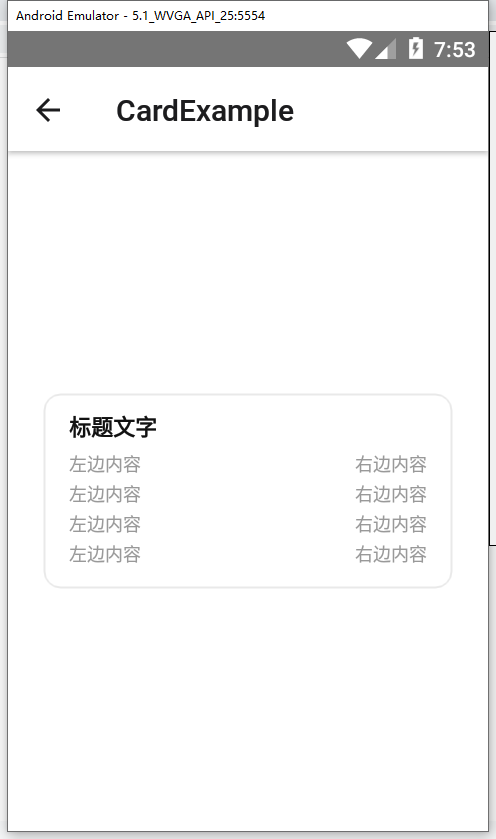
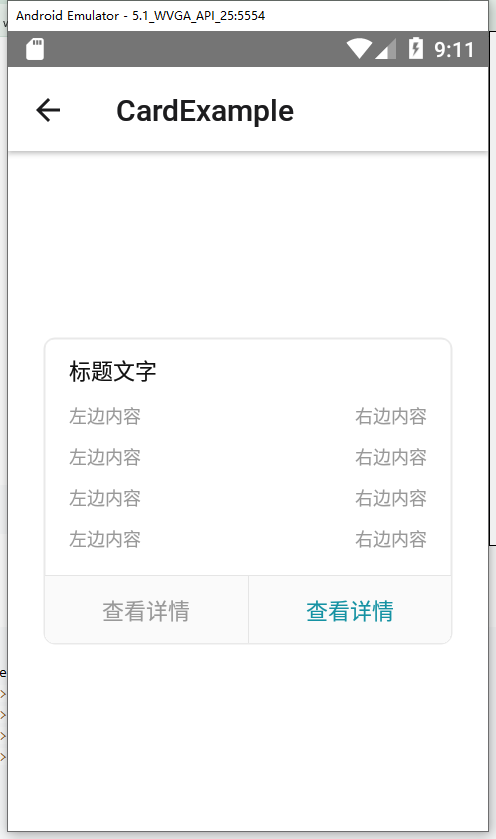
添加国际化

diff --git a/src/components/refresh/Refresh.tsx b/src/components/refresh/Refresh.tsx
@@ -11,6 +11,8 @@ import {
 	ViewStyle
 } from 'react-native'
 
+import { i18n } from '../../i18n';
+
 export const RefreshState = {
 	Idle: 0,
 	HeaderRefreshing: 1,
@@ -55,11 +57,12 @@ type State = {
 class Refresh extends PureComponent<Props | any, State> {
 
 	static defaultProps = {
-		footerRefreshingText: '数据加载中…',
-		footerFailureText: '加载失败,点击重新加载',
-		footerNoMoreDataText: '已加载全部数据',
-		footerEmptyDataText: '暂时没有相关数据',
+		// footerRefreshingText: i18n.t("Refresh.FooterRefreshingText"),
+		// footerFailureText: i18n.t("Refresh.FooterFailureText"),
+		// footerNoMoreDataText: i18n.t("Refresh.FooterNoMoreDataText"),
+		// footerEmptyDataText: i18n.t("Refresh.FooterEmptyDataText"),
 	}
+
 
 	// componentWillReceiveProps(nextProps: Props) {
 	//     log('[RefreshListView]  RefreshListView componentWillReceiveProps ' + nextProps.refreshState)
@@ -151,17 +154,19 @@ class Refresh extends PureComponent<Props | any, State> {
 	renderFooter = () => {
 		let footer = null
 
+
 		let {
-			footerRefreshingText,
-			footerFailureText,
-			footerNoMoreDataText,
-			footerEmptyDataText,
+			footerRefreshingText = i18n.t("Refresh.FooterRefreshingText"),
+			footerFailureText = i18n.t("Refresh.FooterFailureText"),
+			footerNoMoreDataText = i18n.t("Refresh.FooterNoMoreDataText"),
+			footerEmptyDataText = i18n.t("Refresh.FooterEmptyDataText"),
 
 			footerRefreshingComponent,
 			footerFailureComponent,
 			footerNoMoreDataComponent,
 			footerEmptyDataComponent,
 		} = this.props
+
 
 		switch (this.props.refreshState) {
 			case RefreshState.Idle:

diff --git a/src/themes/Theme.tsx b/src/themes/Theme.tsx
@@ -4,6 +4,7 @@ import { Platform, Dimensions, StatusBar } from 'react-native';
 
 import ThemeDefault from './ThemeDefault';
 import type { ThemeType } from './ThemeType';
+import { i18n } from '../i18n';
 
 const X_WIDTH = 375;
 const X_HEIGHT = 812;
@@ -63,6 +64,13 @@ const Theme: ThemeType = {
 
 	get isLandscape() {
 		return Dimensions.get('window').width > Dimensions.get('window').height;
+	},
+
+	setI18n(locale?: string) {
+
+		console.log("***************************" + locale)
+		//设置国际化
+		i18n.locale = locale;
 	},
 
 	get statusBarHeight() {

diff --git a/example/src/views/Home.tsx b/example/src/views/Home.tsx
@@ -1,5 +1,6 @@
-import React from 'react'
+import React, { useEffect } from 'react'
 import { FlatList, Image, StyleSheet, Text, TouchableOpacity, View } from "react-native"
+import { Theme } from 'react-native-yunexpress-ui';
 import ComponentMenu from './Menu';
 
 interface ItemType {
@@ -14,6 +15,10 @@ export default function Home({ navigation }: any) {
 	const DATA = ComponentMenu.map(item => (
 		{ name: item.name, descr: item.descr }
 	))
+
+	useEffect(() => {
+		Theme.setI18n("en");
+	}, []);
 
 	const renderItem = ({ item }: ItemType) => {
 		return (

diff --git a/example/src/views/CardExample.tsx b/example/src/views/CardExample.tsx
@@ -13,7 +13,7 @@ export default function CardExample() {
 					<YTCell leftTitle='左边内容' rightTitle='右边内容'></YTCell>
 					<YTCell leftTitle='左边内容' rightTitle='右边内容'></YTCell>
 				</View>
-				<YTCardButtons btns={[{ title: "查看详情", style: { color: 'blue' } }, { title: "查看详情", style: { color: 'blue' } }]}></YTCardButtons>
+				<YTCardButtons btns={[{ title: "查看详情" }, { title: "查看详情", style: { color: '#1592A3' } }]}></YTCardButtons>
 			</YTCard>
 		</View>
 	);

diff --git a/src/i18n/zh/zh.tsx b/src/i18n/zh/zh.tsx
@@ -1,0 +1,18 @@
+/*
+ * @Author: your name
+ * @Date: 2021-08-20 18:38:02
+ * @LastEditTime: 2021-11-04 11:16:22
+ * @LastEditors: Please set LastEditors
+ * @Description: In User Settings Edit
+ * @FilePath: \AwesomeProjecte:\git\yunExpress\app\i18n\zh\zh.js
+ */
+
+export default {
+	Common: {},
+	Refresh: {
+		FooterRefreshingText: '数据加载中…',
+		FooterFailureText: '加载失败,点击重新加载',
+		FooterNoMoreDataText: '已加载全部数据',
+		FooterEmptyDataText: '暂时没有相关数据',
+	}
+}

diff --git a/example/src/App.tsx b/example/src/App.tsx
@@ -5,10 +5,13 @@ import { createStackNavigator } from '@react-navigation/stack';
 import Home from './views/Home';
 const Stack = createStackNavigator();
 import ComponentMenu from './views/Menu';
+import { Theme } from 'react-native-yunexpress-ui';
 
 const pages: Array<any> = ComponentMenu;
 
 export default function App() {
+
+
 	return (
 		<NavigationContainer>
 			<Stack.Navigator>

diff --git a/src/i18n/fr/fr.tsx b/src/i18n/fr/fr.tsx
@@ -1,0 +1,9 @@
+export default {
+	Common: {},
+	Refresh: {
+		FooterRefreshingText: 'Chargement des données...',
+		FooterFailureText: 'Impossible de charger, cliquez sur recharger',
+		FooterNoMoreDataText: 'Toutes les données sont chargées',
+		FooterEmptyDataText: 'Aucune donnée disponible',
+	}
+}

diff --git a/src/i18n/index.tsx b/src/i18n/index.tsx
@@ -1,0 +1,19 @@
+import i18n from 'react-native-i18n';
+
+import en from './en/en'; //暂时用中文 后面复制字典翻译
+
+import zh from './zh/zh';
+
+import fr from './fr/fr';
+
+i18n.defaultLocale = 'fr';
+
+i18n.fallbacks = true;
+
+i18n.translations = {
+	en,
+	zh,
+	fr
+};
+
+export { i18n };

diff --git a/src/index.tsx b/src/index.tsx
@@ -47,5 +47,8 @@ export { default as Theme } from './themes/Theme'
  */
 export { default as YTRefresh } from './components/refresh/index';
 
+/**
+ * 刷新组件的各种状态
+ */
 export { RefreshState as YTRefreshState } from './components/refresh/Refresh';
 

diff --git a/src/i18n/en/en.tsx b/src/i18n/en/en.tsx
@@ -1,0 +1,9 @@
+export default {
+	Common: {},
+	Refresh: {
+		FooterRefreshingText: 'Data loading…',
+		FooterFailureText: 'Loading failed, click reload',
+		FooterNoMoreDataText: 'All data loaded',
+		FooterEmptyDataText: 'No relevant data',
+	}
+}

diff --git a/src/themes/ThemeType.tsx b/src/themes/ThemeType.tsx
@@ -26,5 +26,6 @@ export type ThemeType = {
 
 	cellTitleColor?: string | undefined,
 	padding?: Function,
-	w: number
+	w: number,
+	setI18n?: Function | any
 };

diff --git a/src/type.d.ts b/src/type.d.ts
@@ -1,0 +1,1 @@
+declare module 'react-native-i18n';
